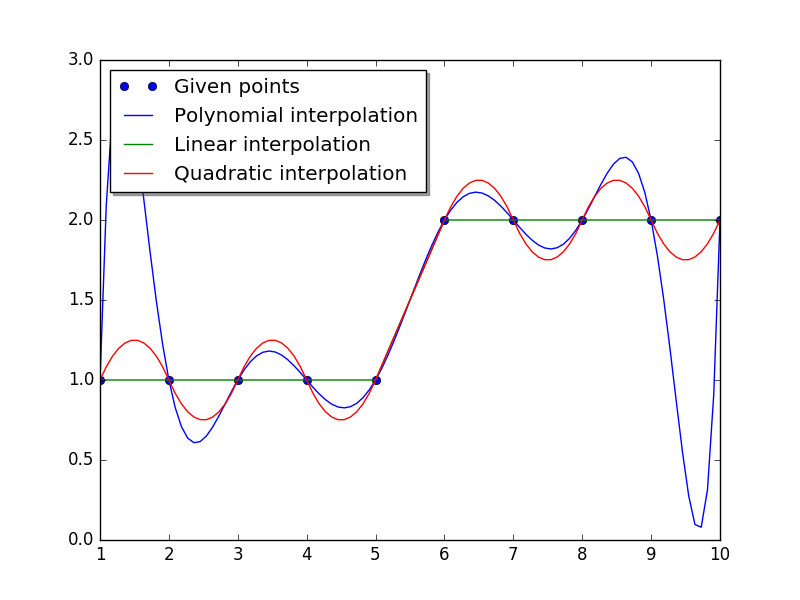
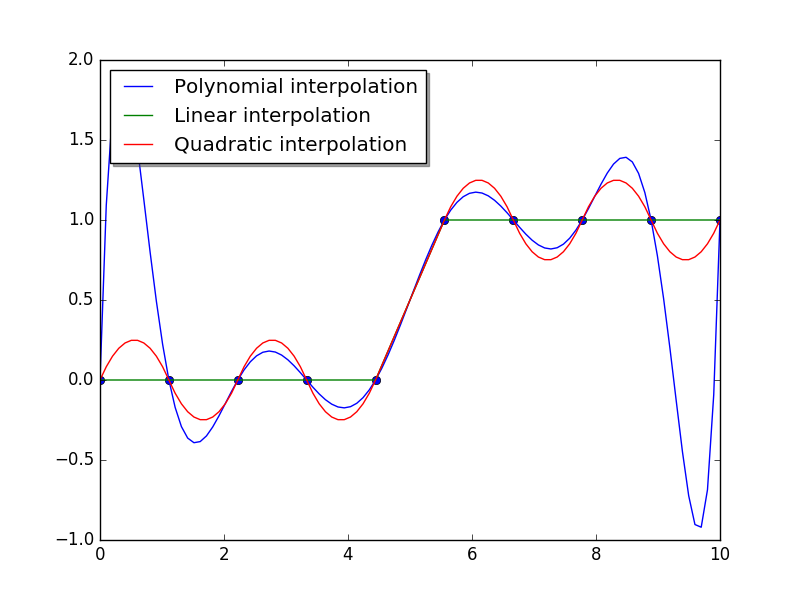
added makefile, got errors with dividing with zero

diff --git a/interpolation/stepwise.py b/interpolation/stepwise.py
@@ -2,12 +2,11 @@ import matplotlib.pyplot as mp
 import numpy as np
 import interpolation as inter
 
-data = np.loadtxt('test.dat')
-
-x = data[:,0]
-y = data[:,1]
+x = np.linspace(0,10,10)
+y = [0,0,0,0,0,1,1,1,1,1]
 z = np.linspace(x[0],len(x),100)
-mp.plot(x,y,'bo',label='Given points')
+mp.plot(x,y,'bo')
+
 
 # polynomial interpolation
 f1 = inter.pinterp(x,y,z)
@@ -27,4 +26,7 @@ mp.plot(z,f3,label='Quadratic interpolation')
 legend = mp.legend(loc='upper left', shadow=True, fontsize='large')
 
 # saving figure
-mp.savefig('test.png',format='png')
+mp.savefig('stepwise.png',format='png')
+
+# prints text in command line
+print 'Figures saved as .png'
